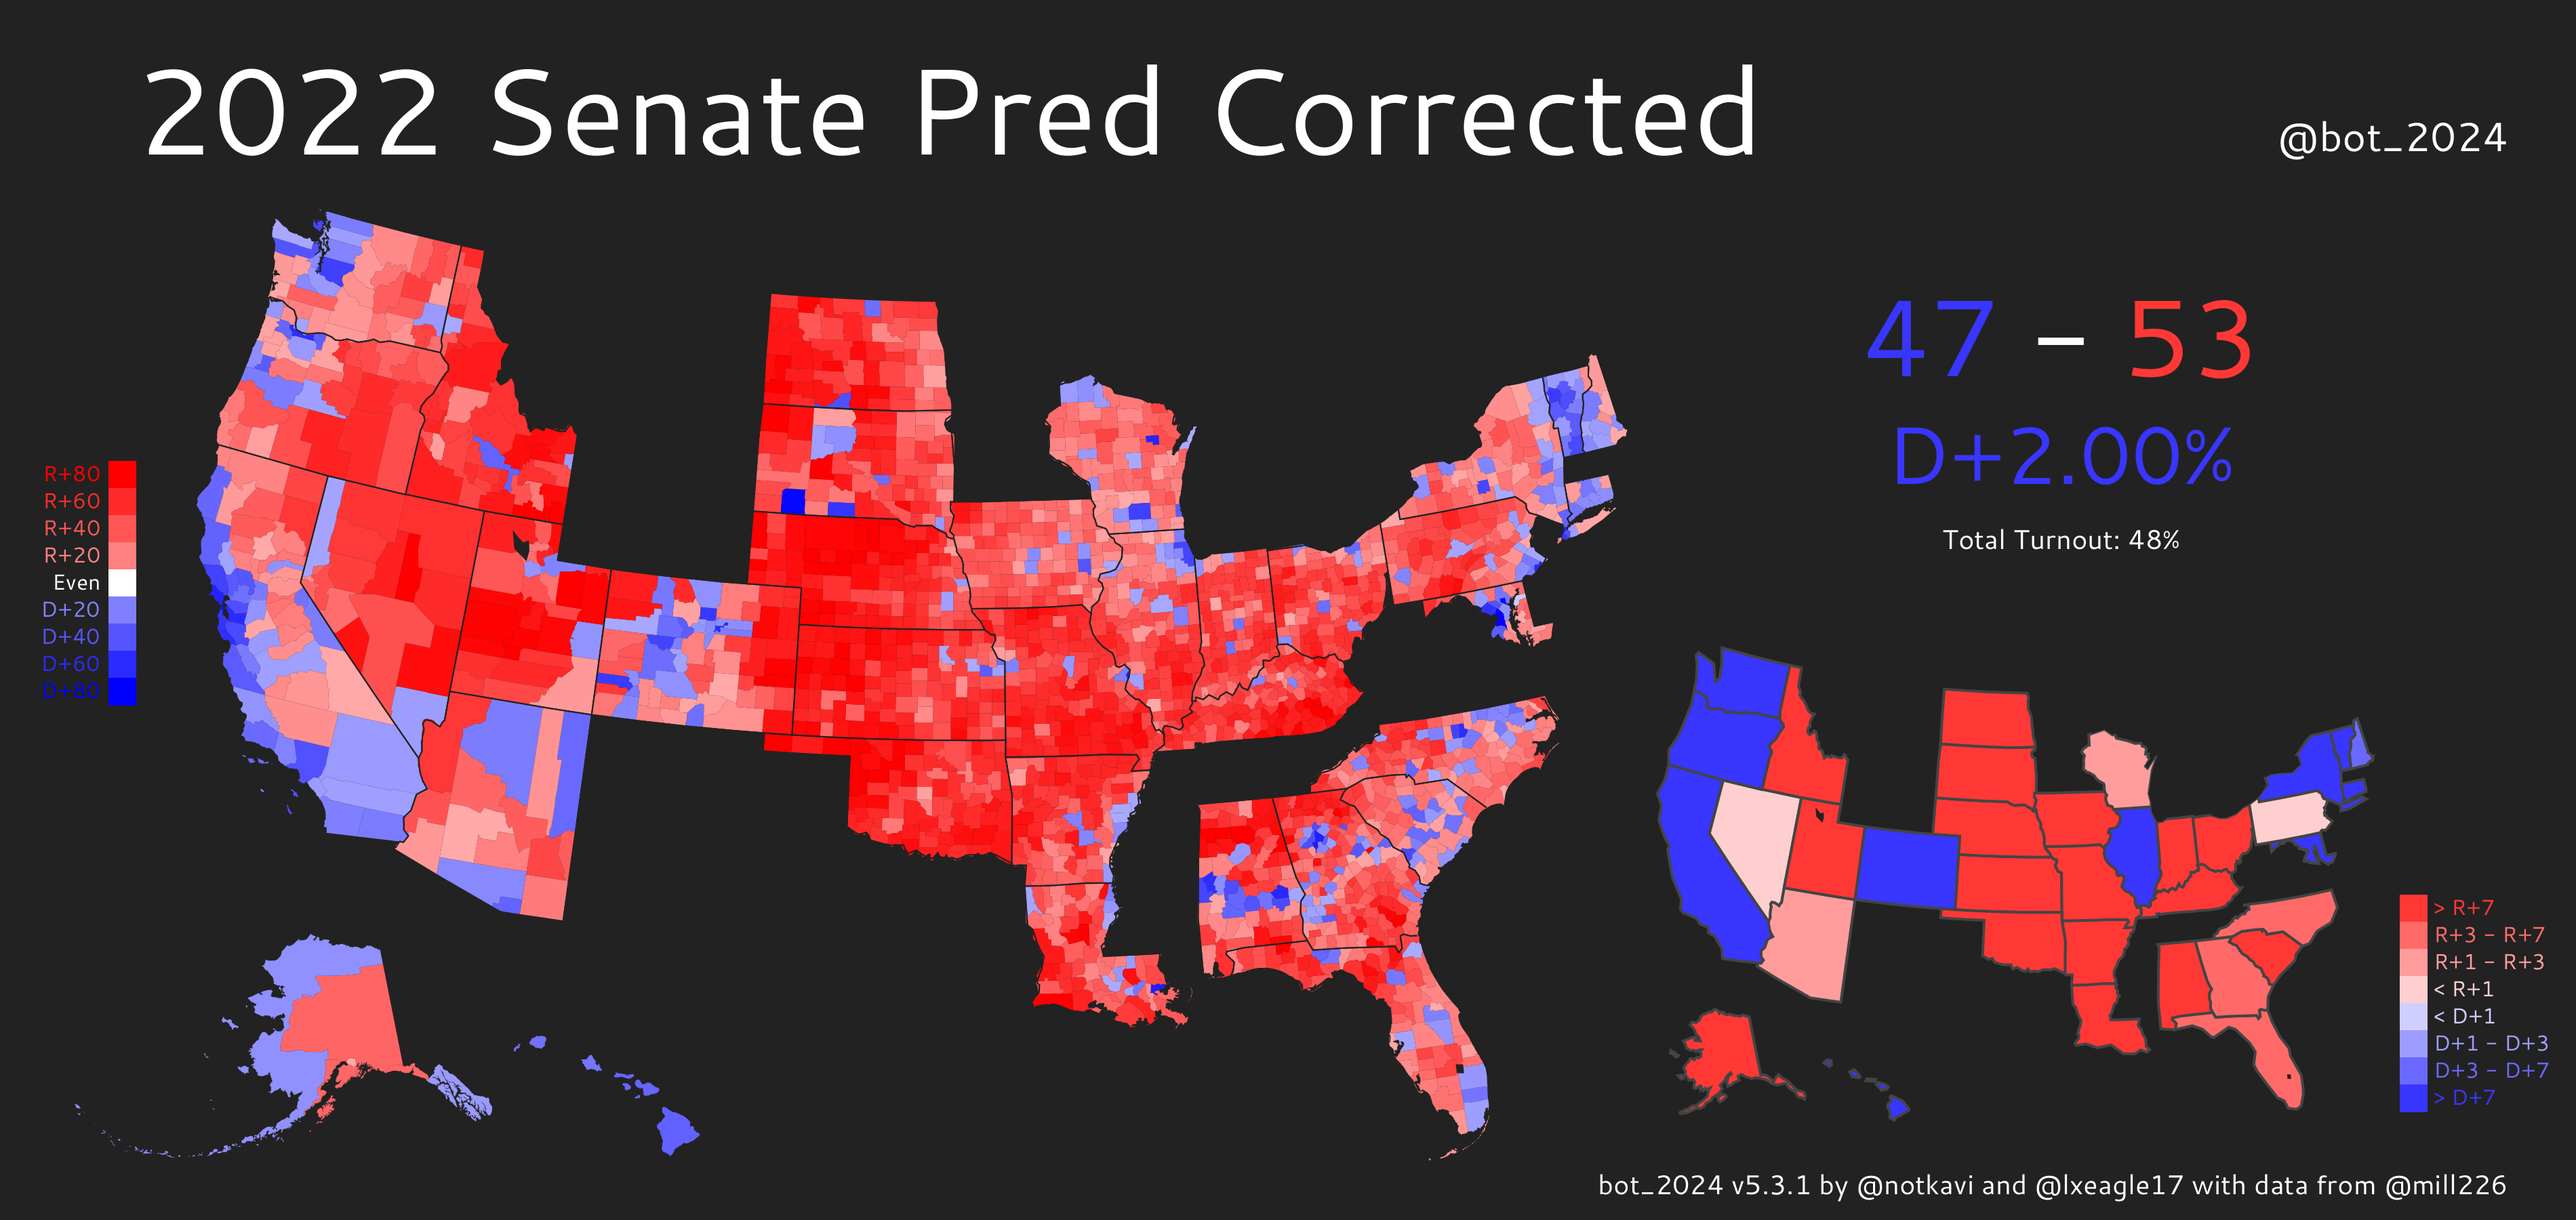
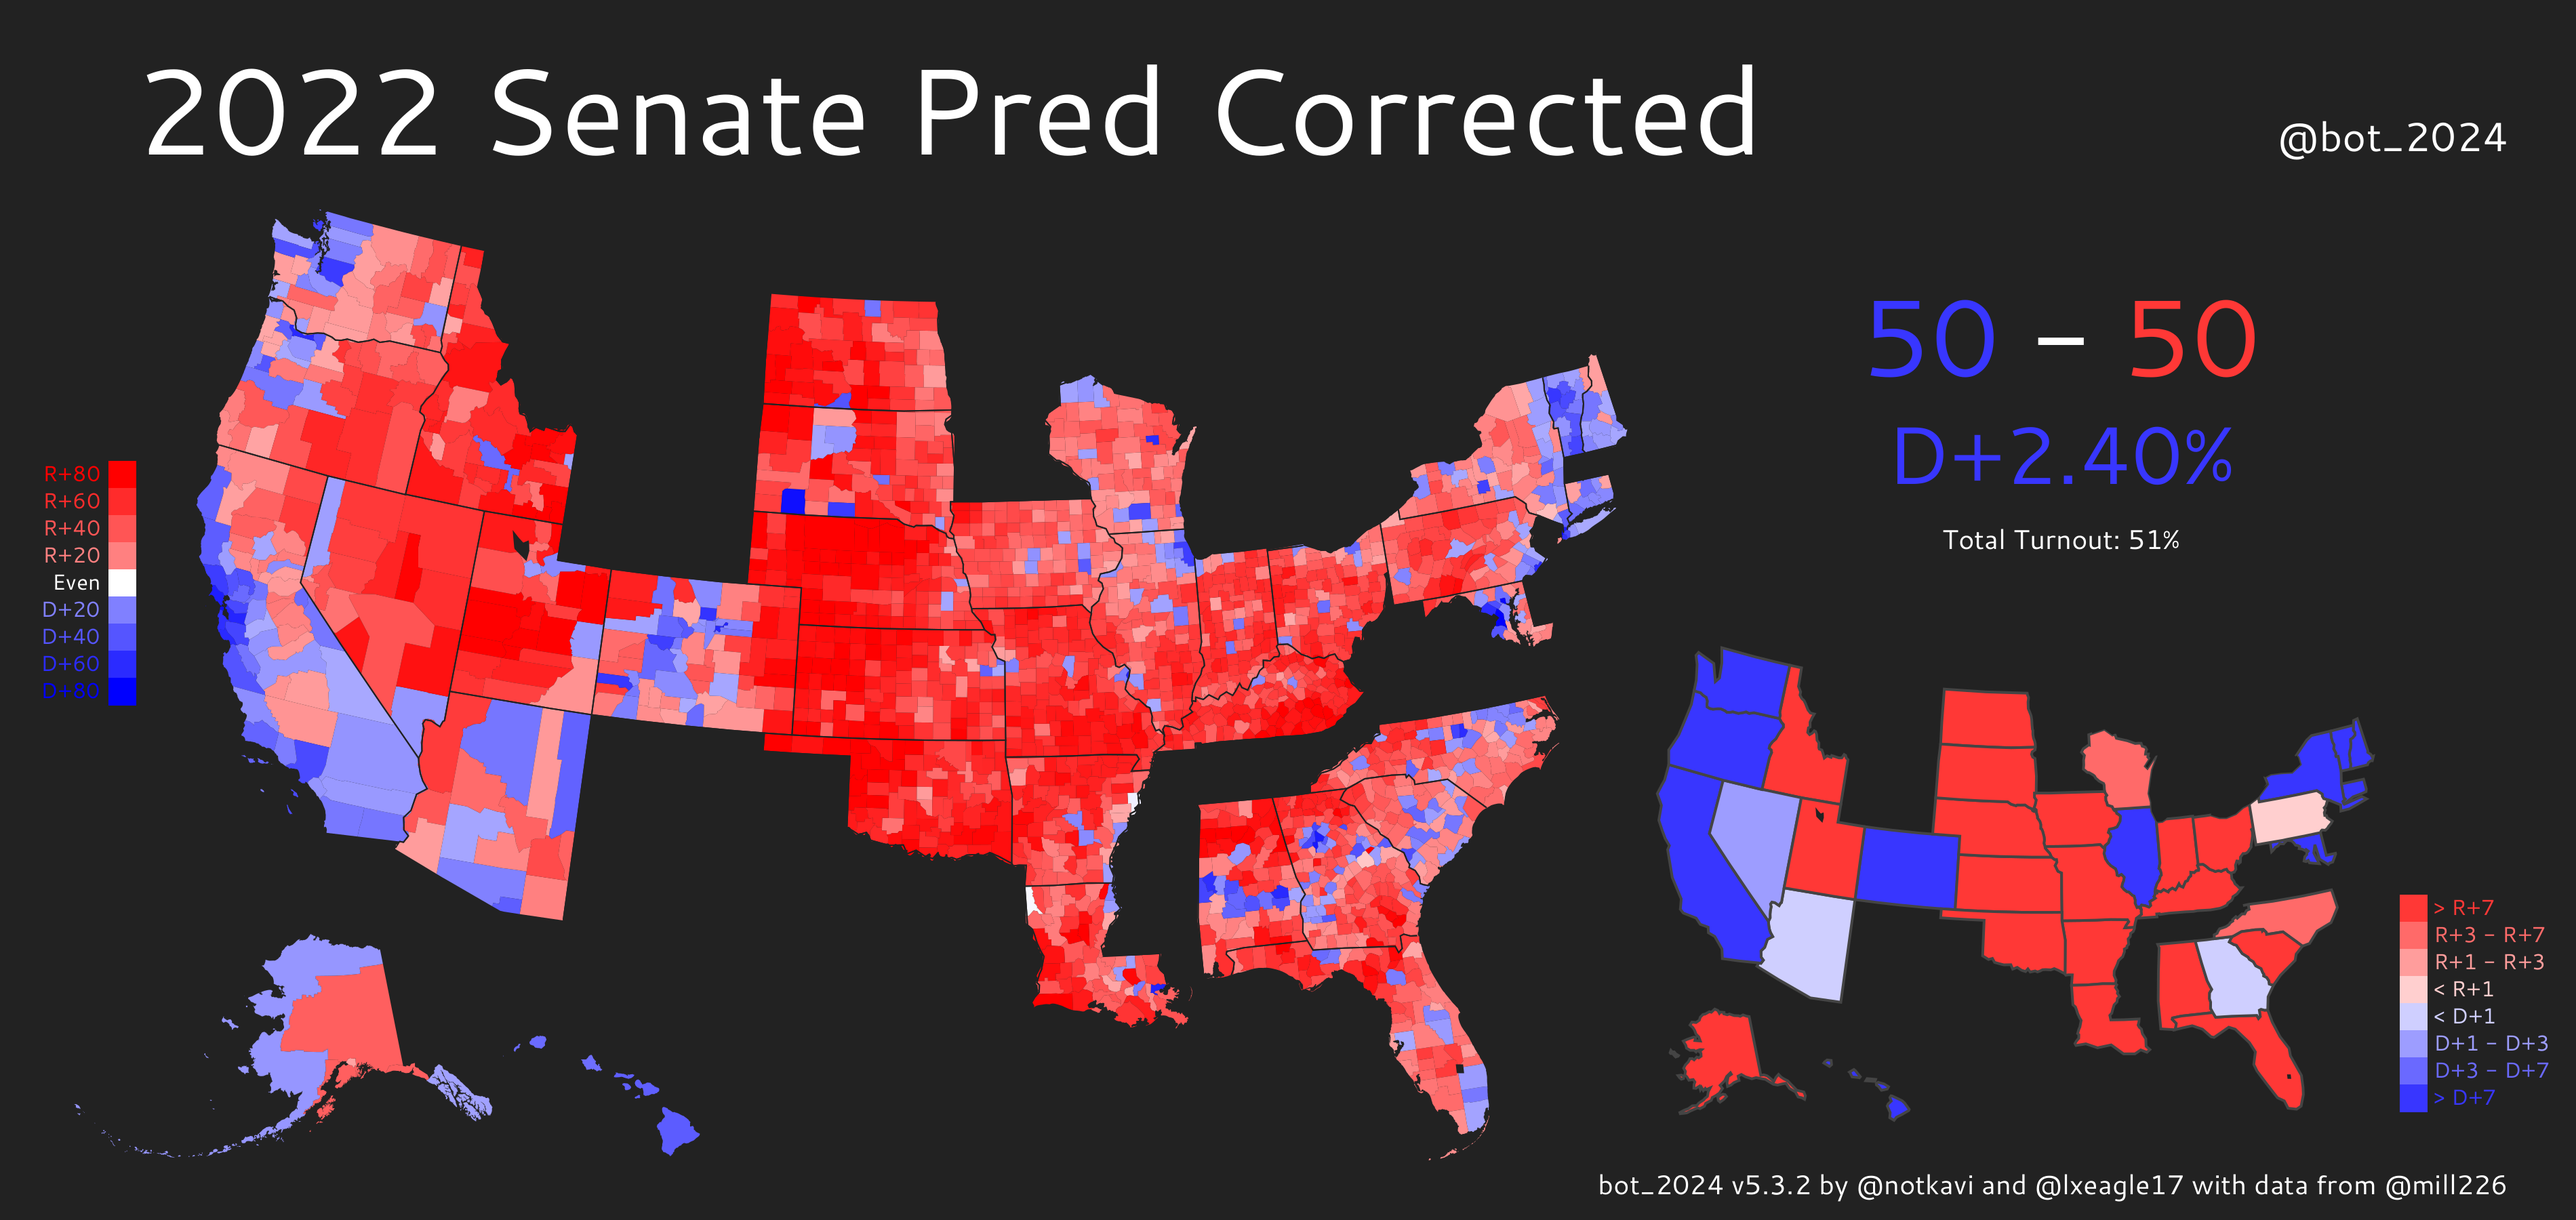
2022 working branch

diff --git a/mapmaker/torch_model.py b/mapmaker/torch_model.py
@@ -2,15 +2,18 @@ from collections import defaultdict
 
 import attr
 
+
 import torch
 import torch.nn as nn
 
 import numpy as np
 
+import us
 from permacache import permacache, stable_hash
 
 from .aggregation import get_popular_vote
 from .model import Model
+from .senate import race_effect
 from .trend_model import StableTrendModel, NoisedTrendModel
 from .utils import hash_model, intersect_all
 
@@ -232,6 +235,7 @@ class AdjustedDemographicCategoryModel:
     partisanship_noise = attr.ib(default=0)
     turnout_noise = attr.ib(default=0)
     turnout_weights = attr.ib(default=None)
+    candidate_effect_seed = attr.ib(default=None)
 
     @staticmethod
     def train(*, years, features, data, feature_kwargs):
@@ -266,6 +270,7 @@ class AdjustedDemographicCategoryModel:
         turnout_weights /= turnout_weights.sum()
         turnout_weights = {y: w for y, w in zip(same_cycle_years, turnout_weights)}
         trend_model = NoisedTrendModel.of(rng, self.dcm.f)
+        candidate_effect_seed = rng.randint(2 ** 32)
 
         return AdjustedDemographicCategoryModel(
             dcm=self.dcm,
@@ -274,6 +279,7 @@ class AdjustedDemographicCategoryModel:
             partisanship_noise=partisanship_noise,
             turnout_noise=turnout_noise,
             turnout_weights=turnout_weights,
+            candidate_effect_seed=candidate_effect_seed,
         )
 
     def sample_perturbations(self):
@@ -281,7 +287,7 @@ class AdjustedDemographicCategoryModel:
         return deltas
 
     def turnout_relevant_years(self, output_year):
-        return [y for y in self.dcm.years if y % 4 == output_year % 4 and y not in EXCLUDE_TURNOUT_YEARS]
+        return [2018]
 
     def predict(
         self, *, data, model_year, output_year, features, correct, turnout_year, map_type
@@ -305,14 +311,23 @@ class AdjustedDemographicCategoryModel:
                 year=output_year,
                 base_year=model_year,
             )
-            t = t + self.residuals[model_year][1]
+            if turnout_weights is not None:
+                for ty, tw in turnout_weights.items():
+                    # complete mess. Map both sets of indices to a common basis and add the residuals at that site
+                    # Just default to residual 0 for ones we we don't have direct access to
+                    t[self.dcm.index_to_common[model_year]] += (self.residuals[ty][1] * tw)[self.dcm.index_to_common[ty]]
             if correct == "just_residuals":
                 p = pr
             else:
                 p = p + pr
                 if output_year in YEAR_FORCE_ENVIRONMENT:
                     empirical = get_popular_vote(data, dem_margin=p, turnout=t)
+                    print("Expected popular vote", empirical)
                     p = p - empirical + YEAR_FORCE_ENVIRONMENT[output_year]
+                if map_type == "senate":
+                    assert output_year == 2022
+                    effect_by_state = data["state"].map(lambda x: race_effect(us.states.lookup(x).abbr, self.candidate_effect_seed))
+                    p = p + effect_by_state
 
 
         return np.clip(p, -0.99, 0.99), np.clip(t, 0.01, 0.99)

diff --git a/mapmaker/senate.py b/mapmaker/senate.py
@@ -1,3 +1,7 @@
+import zlib
+from functools import lru_cache
+import numpy as np
+
 class_1_and_3 = {
     "WA",
     "ND",
@@ -112,3 +116,28 @@ d_lock_2022 = 50 - len(d_open_2022) - len(d_incumbents_up_2022)
 assert (
     r_incumbents_up_2022 | d_incumbents_up_2022 | r_open_2022 | d_open_2022
 ) == senate_2022
+
+# https://fivethirtyeight.com/features/how-much-was-incumbency-worth-in-2018/
+INCUMBENCY_EFFECT_MEAN = 2.7e-2
+# ????? complete guess for now
+CANDIDATE_EFFECT_MEAN = 2e-2
+
+@lru_cache(None)
+def race_effect(state, seed):
+    assert state not in d_incumbents_up_2022 or state not in r_incumbents_up_2022
+    if seed is None:
+        candidate_effect = 0
+        incumbency_effect = INCUMBENCY_EFFECT_MEAN
+    else:
+        rng = np.random.RandomState((seed + zlib.adler32(state.encode("utf-8"))) % 2 ** 32)
+        # mean of absolute value normal value == sqrt(2 / pi)
+        candidate_effect = rng.randn() * (np.pi / 2) ** 0.5 * CANDIDATE_EFFECT_MEAN
+        # chi squared mode = df - 2
+        incumbency_effect = rng.chisquare(INCUMBENCY_EFFECT_MEAN + 2)
+
+    effect = candidate_effect
+    if state in d_incumbents_up_2022:
+        effect += incumbency_effect
+    elif state in r_incumbents_up_2022:
+        effect -= incumbency_effect
+    return effect

diff --git a/generate_examples.py b/generate_examples.py
@@ -4,7 +4,7 @@ from mapmaker.generate_image import get_model, get_image
 
 YEARS = (2024, 2022, 2010, 2012, 2014, 2016, 2018, 2020)
 
-MAP_TYPES = ["senate", "president"]
+MAP_TYPES = ["senate"]
 
 model = get_model(calibrated=False)
 for y in YEARS:
